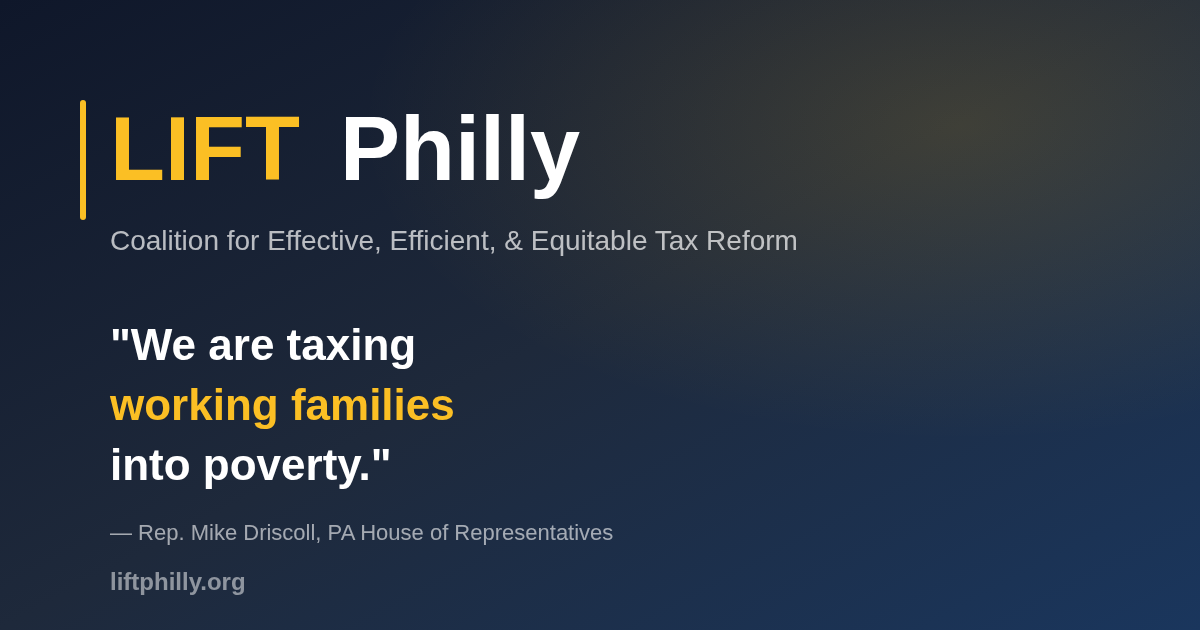
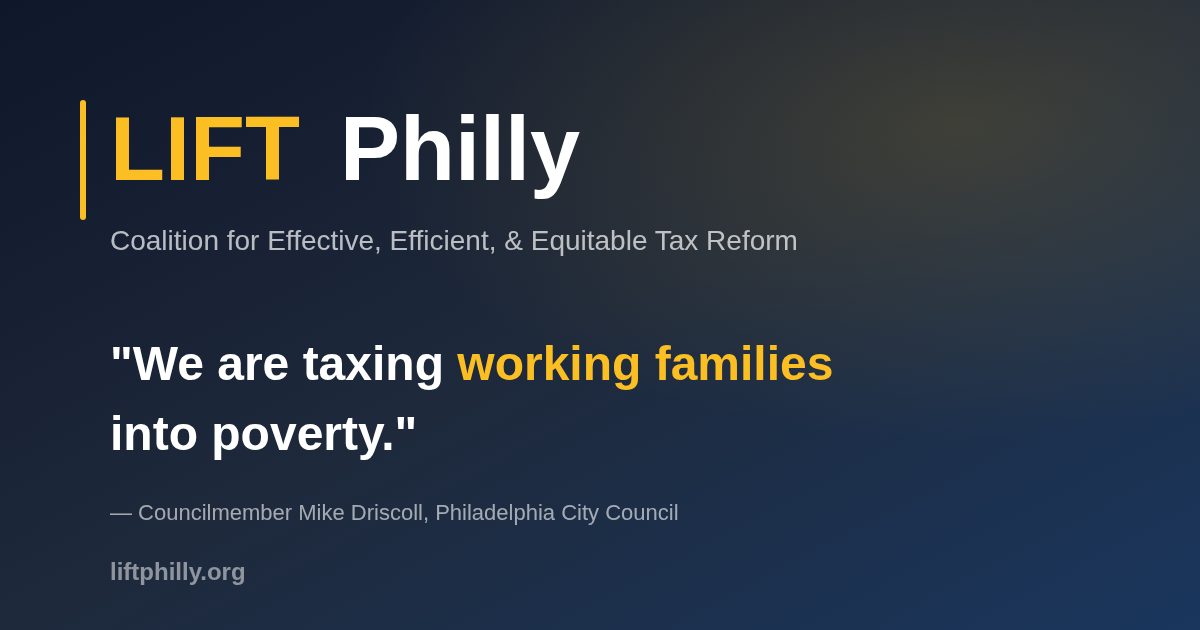
Improve OG image quote wrapping and complete meta tags
- Quote now wraps on two balanced lines
- Added og:site_name, og:locale, image alt tags
- Updated descriptions to include Driscoll quote

🤖 Generated with [Claude Code](https://claude.com/claude-code)

Changed region(s): [[0.0925, 0.5127, 0.7092, 0.9349]]

diff --git a/index.html b/index.html
@@ -9,18 +9,22 @@
     <!-- Open Graph / Facebook -->
     <meta property="og:type" content="website">
     <meta property="og:url" content="https://liftphilly.org/">
+    <meta property="og:site_name" content="LIFT Philly">
+    <meta property="og:locale" content="en_US">
     <meta property="og:title" content="LIFT Philly - Tax Reform for Philadelphia's Small Businesses">
-    <meta property="og:description" content="122,000 small businesses face a massive tax increase in 2026. Join the coalition for effective, efficient, & equitable tax reform.">
+    <meta property="og:description" content="&quot;We are taxing working families into poverty.&quot; — Councilmember Mike Driscoll. Join the coalition for effective, efficient, & equitable tax reform.">
     <meta property="og:image" content="https://liftphilly.org/og-image.png">
     <meta property="og:image:width" content="1200">
     <meta property="og:image:height" content="630">
+    <meta property="og:image:alt" content="LIFT Philly - We are taxing working families into poverty">
 
     <!-- Twitter -->
     <meta name="twitter:card" content="summary_large_image">
     <meta name="twitter:url" content="https://liftphilly.org/">
     <meta name="twitter:title" content="LIFT Philly - Tax Reform for Philadelphia's Small Businesses">
-    <meta name="twitter:description" content="122,000 small businesses face a massive tax increase in 2026. Join the coalition for effective, efficient, & equitable tax reform.">
+    <meta name="twitter:description" content="&quot;We are taxing working families into poverty.&quot; — Councilmember Mike Driscoll. Join the coalition for effective, efficient, & equitable tax reform.">
     <meta name="twitter:image" content="https://liftphilly.org/og-image.png">
+    <meta name="twitter:image:alt" content="LIFT Philly - We are taxing working families into poverty">
 
     <link rel="preconnect" href="https://fonts.googleapis.com">
     <link rel="preconnect" href="https://fonts.gstatic.com" crossorigin>
